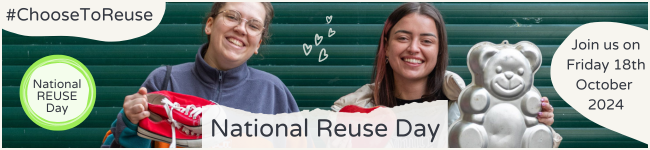
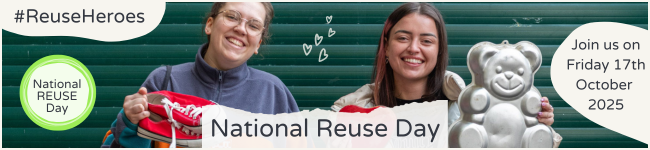
National Reuse Day 2025 updates.

Changed region(s): [[0.0, 0.0533, 0.2462, 0.16], [0.9231, 0.6667, 0.9846, 0.72], [0.9538, 0.4, 0.9846, 0.48]]

diff --git a/pages/NationalReuseDay.vue b/pages/NationalReuseDay.vue
@@ -16,7 +16,7 @@
             <div class="ratio ratio-16x9">
               <iframe
                 class="embed-responsive-item w-100"
-                src="https://www.youtube.com/embed/1rjCVHPOIpA"
+                src="https://www.youtube.com/embed/jyrAq57nqPM?si=892mIXfXSGpFxvJG"
                 allowfullscreen
               />
             </div>
@@ -27,7 +27,7 @@
               title="A-Z Film"
               description="Watch and share our new film about the Freegle Free Shop."
               image="/NRD/A-Zfilm.png"
-              url="https://www.youtube.com/embed/1rjCVHPOIpA"
+              url="https://youtu.be/SMtiMAiEb20?si=7VI3TxOaHzguem65"
               colour="magenta"
             />
             <NationalReuseDayBox
@@ -52,10 +52,10 @@
               colour="gold"
             />
             <NationalReuseDayBox
-              title="Quiz"
-              image="/NRD/ReuseQuiz.png"
-              description="Test your knowledge and discover fun facts about reuse!"
-              url="https://f6o4c3o82sx.typeform.com/to/GK9Q7hJK"
+              title="#ReuseHeroes"
+              image="/NRD/ReuseHeroes.png"
+              description="Tell us about your local Reuse Heroes."
+              url="mailto:partnerships@ilovefreegle.org"
               colour="orange"
             />
             <NationalReuseDayBox
@@ -69,27 +69,28 @@
           <div class="d-flex justify-content-around">
             <b-card class="cardwidth">
               <p>
-                Join Freegle as we celebrate National Reuse Day On Friday 18th
-                October. #NationalReuseDay is an annual event which celebrates
-                the wonderful and powerful act of REUSE - in all its forms.
-                Let's work together to put #Reuse firmly into the spotlight!
+                Join Freegle as we celebrate National Reuse Day on Friday 17th
+                October.
               </p>
               <p>
-                This year we will be asking people to #ChooseToReuse everyday,
-                because it's simple, anyone can do it and it's a great way for
-                everyone to:
+                #NationalReuseDay is an annual event, held each year on the
+                third Friday of October. National Reuse Day celebrates the
+                wonderful and powerful act of REUSE - in all its forms. Let's
+                work together to put #Reuse firmly into the spotlight!
               </p>
-              <ul class="list-unstyled mb-0">
-                <li>✅ Save money.</li>
-                <li>✅ Cut waste.</li>
-                <li>✅ Help others.</li>
-                <li>✅ Protect the planet.</li>
-              </ul>
+              <p>
+                This year will focus on the UK's #ReuseHeroes. Up and down the
+                UK there are some incredible initiatives going on, helping
+                people to waste less and reuse more. We want to shine a light on
+                the amazing reuse that's already happening and the fabulous
+                'Reuse Heroes', who are helping to inspire communities to waste
+                less and reuse more.
+              </p>
               <p class="mt-2">
                 For more information about National Reuse Day contact us here:
                 <SupportLink
-                  email="info@ilovefreegle.org"
-                  text="info@ilovefreegle.org"
+                  email="partnerships@ilovefreegle.org"
+                  text="partnerships@ilovefreegle.org"
                 />.
               </p>
             </b-card>
@@ -117,7 +118,7 @@ definePageMeta({
 const head = buildHead(
   route,
   runtimeConfig,
-  'National Reuse Day 2024',
+  'National Reuse Day 2025',
   'Celebrate reuse and get involved',
   runtimeConfig.public.USER_SITE + '/councils/NationalReuseDay.png',
   {
